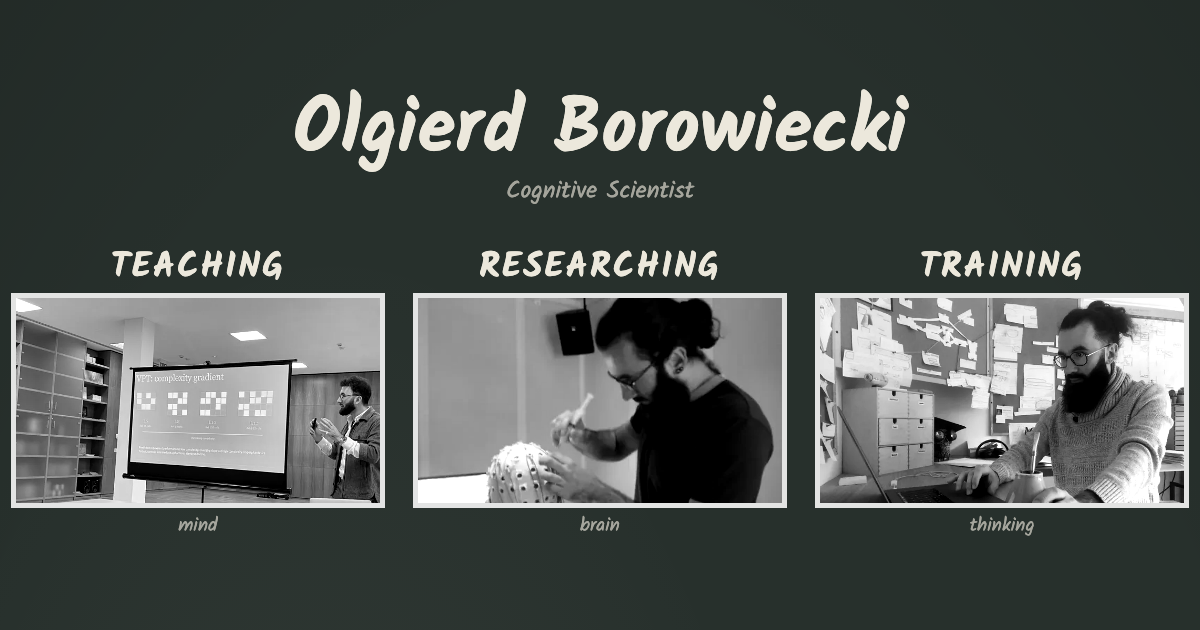
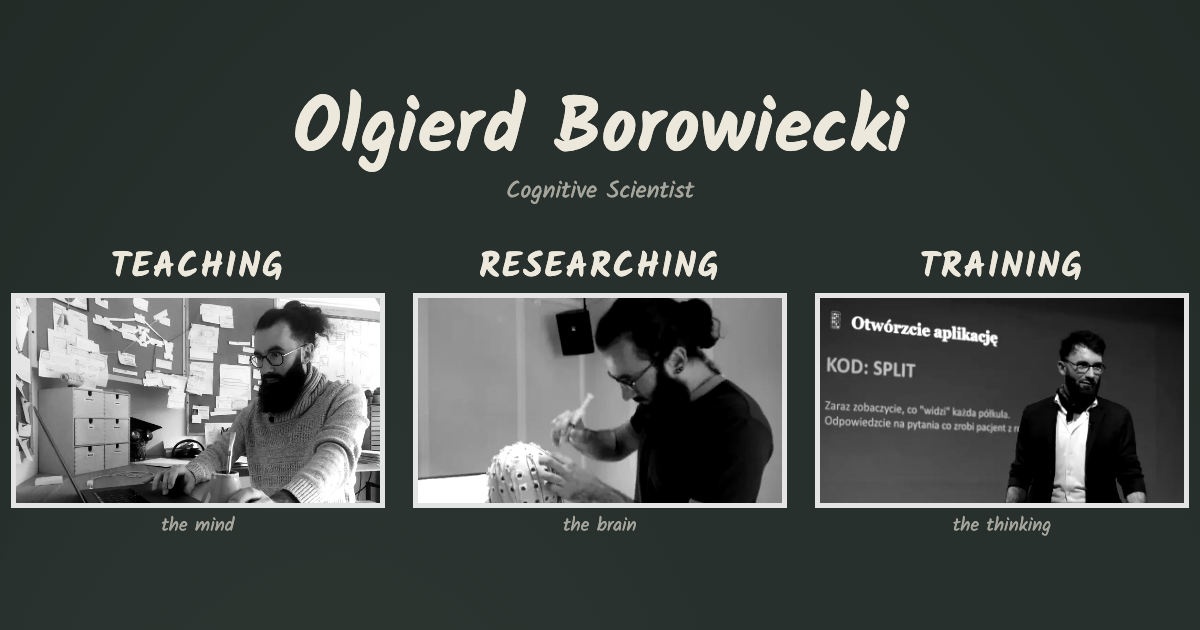
Yerba on Teaching, split-brain on Training

Changed region(s): [[0.0, 0.4524, 0.3392, 0.8444], [0.6783, 0.4524, 0.9867, 0.8444], [0.4625, 0.8143, 0.5242, 0.8444]]

diff --git a/public/index.html b/public/index.html
@@ -107,9 +107,9 @@ html:not(.gl) .dwa{grid-template-columns:minmax(0,1fr)}
     <p class="kim">Cognitive Scientist</p>
   </header>
   <nav class="filary" aria-label="What I do">
-    <a class="filar" href="#teaching"><h2>Teaching</h2><img src="img/k-workshop.webp" width="693" height="390" alt="Olgierd explaining a slide on a complexity gradient at a workshop"><p>mind</p></a>
-    <a class="filar" href="#researching"><h2>Researching</h2><img src="img/k-eeg-p.webp" width="520" height="292" alt="Olgierd applying gel to the EEG cap of a study participant"><p>brain</p></a>
-    <a class="filar" href="#training"><h2>Training</h2><img src="img/k-yerba.webp" width="693" height="390" alt="Olgierd at his laptop with a gourd of yerba mate, a cork board of cards behind him"><p>thinking</p></a>
+    <a class="filar" href="#teaching"><h2>Teaching</h2><img src="img/k-yerba.webp" width="693" height="390" alt="Olgierd at his laptop with a gourd of yerba mate, a cork board of cards behind him"><p>the mind</p></a>
+    <a class="filar" href="#researching"><h2>Researching</h2><img src="img/k-eeg-p.webp" width="520" height="292" alt="Olgierd applying gel to the EEG cap of a study participant"><p>the brain</p></a>
+    <a class="filar" href="#training"><h2>Training</h2><img src="img/k-split.webp" width="771" height="434" alt="Olgierd in front of a split-brain experiment slide: open the app, code SPLIT"><p>the thinking</p></a>
   </nav>
 </main>
 
